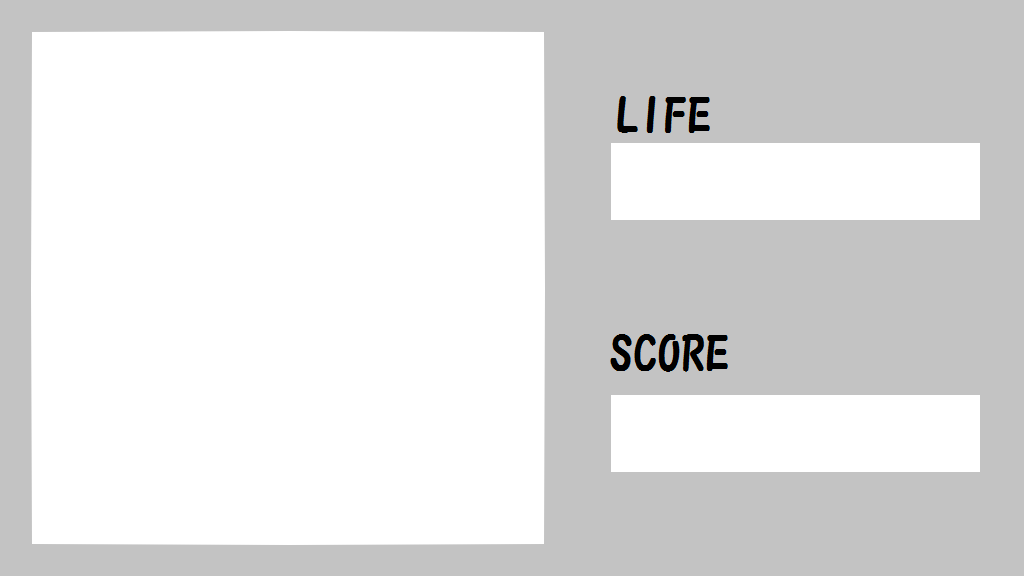
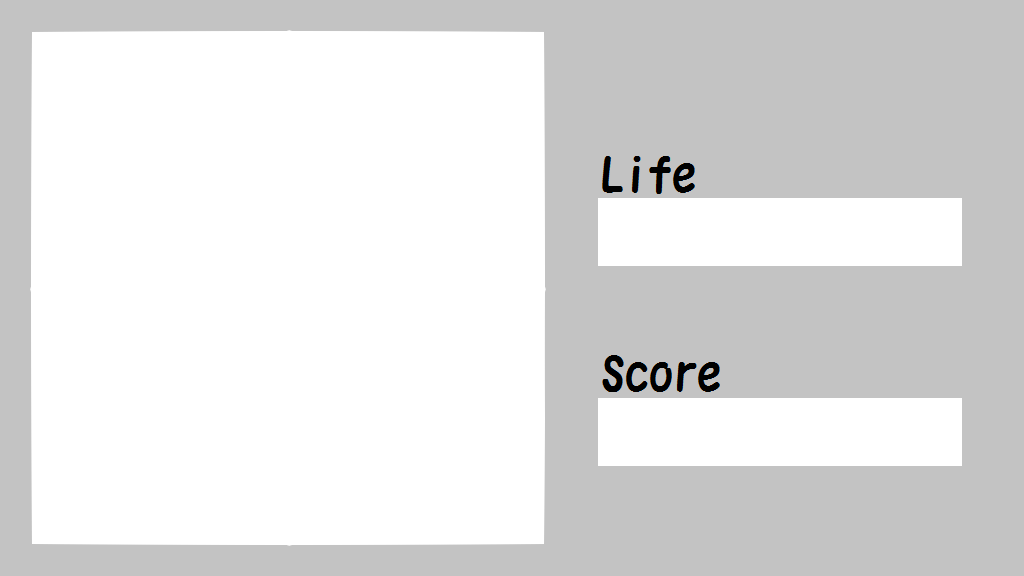
スコア表示(再)

Changed region(s): [[0.5625, 0.1562, 0.9688, 0.4688], [0.5625, 0.5625, 0.9688, 0.8438]]

diff --git a/Win32Project1/Win32Project1/mGameObject.h b/Win32Project1/Win32Project1/mGameObject.h
@@ -1,4 +1,5 @@
 #include "BaseObject.h"
+#include "Screen.h"
 #include "stdafx.h"
 
 #pragma once
@@ -26,6 +27,7 @@ public:
 
 	BaseObject* mEnemyBulletObject;
 	PlayerObject* Player;
+	Screen* mScreen;
 
 	int GameStatus;
 

diff --git a/Win32Project1/Win32Project1/stdafx.h b/Win32Project1/Win32Project1/stdafx.h
@@ -40,6 +40,7 @@
 #include "mEnemy.h"
 #include "Enemy.h"
 #include "AnimationObject.h"
+#include "Screen.h"
 
 #include "KeyControl.h"
 #include "mGraphic.h"

diff --git a/Win32Project1/Win32Project1/Screen.h b/Win32Project1/Win32Project1/Screen.h
@@ -12,5 +12,8 @@ public:
 	void MyPeculiarAction(BaseObject * obj);
 
 	PlayerObject* PlayerObj;
+	int ScoreFont;
+	double Score;
+	int HighScore;
 };
 
